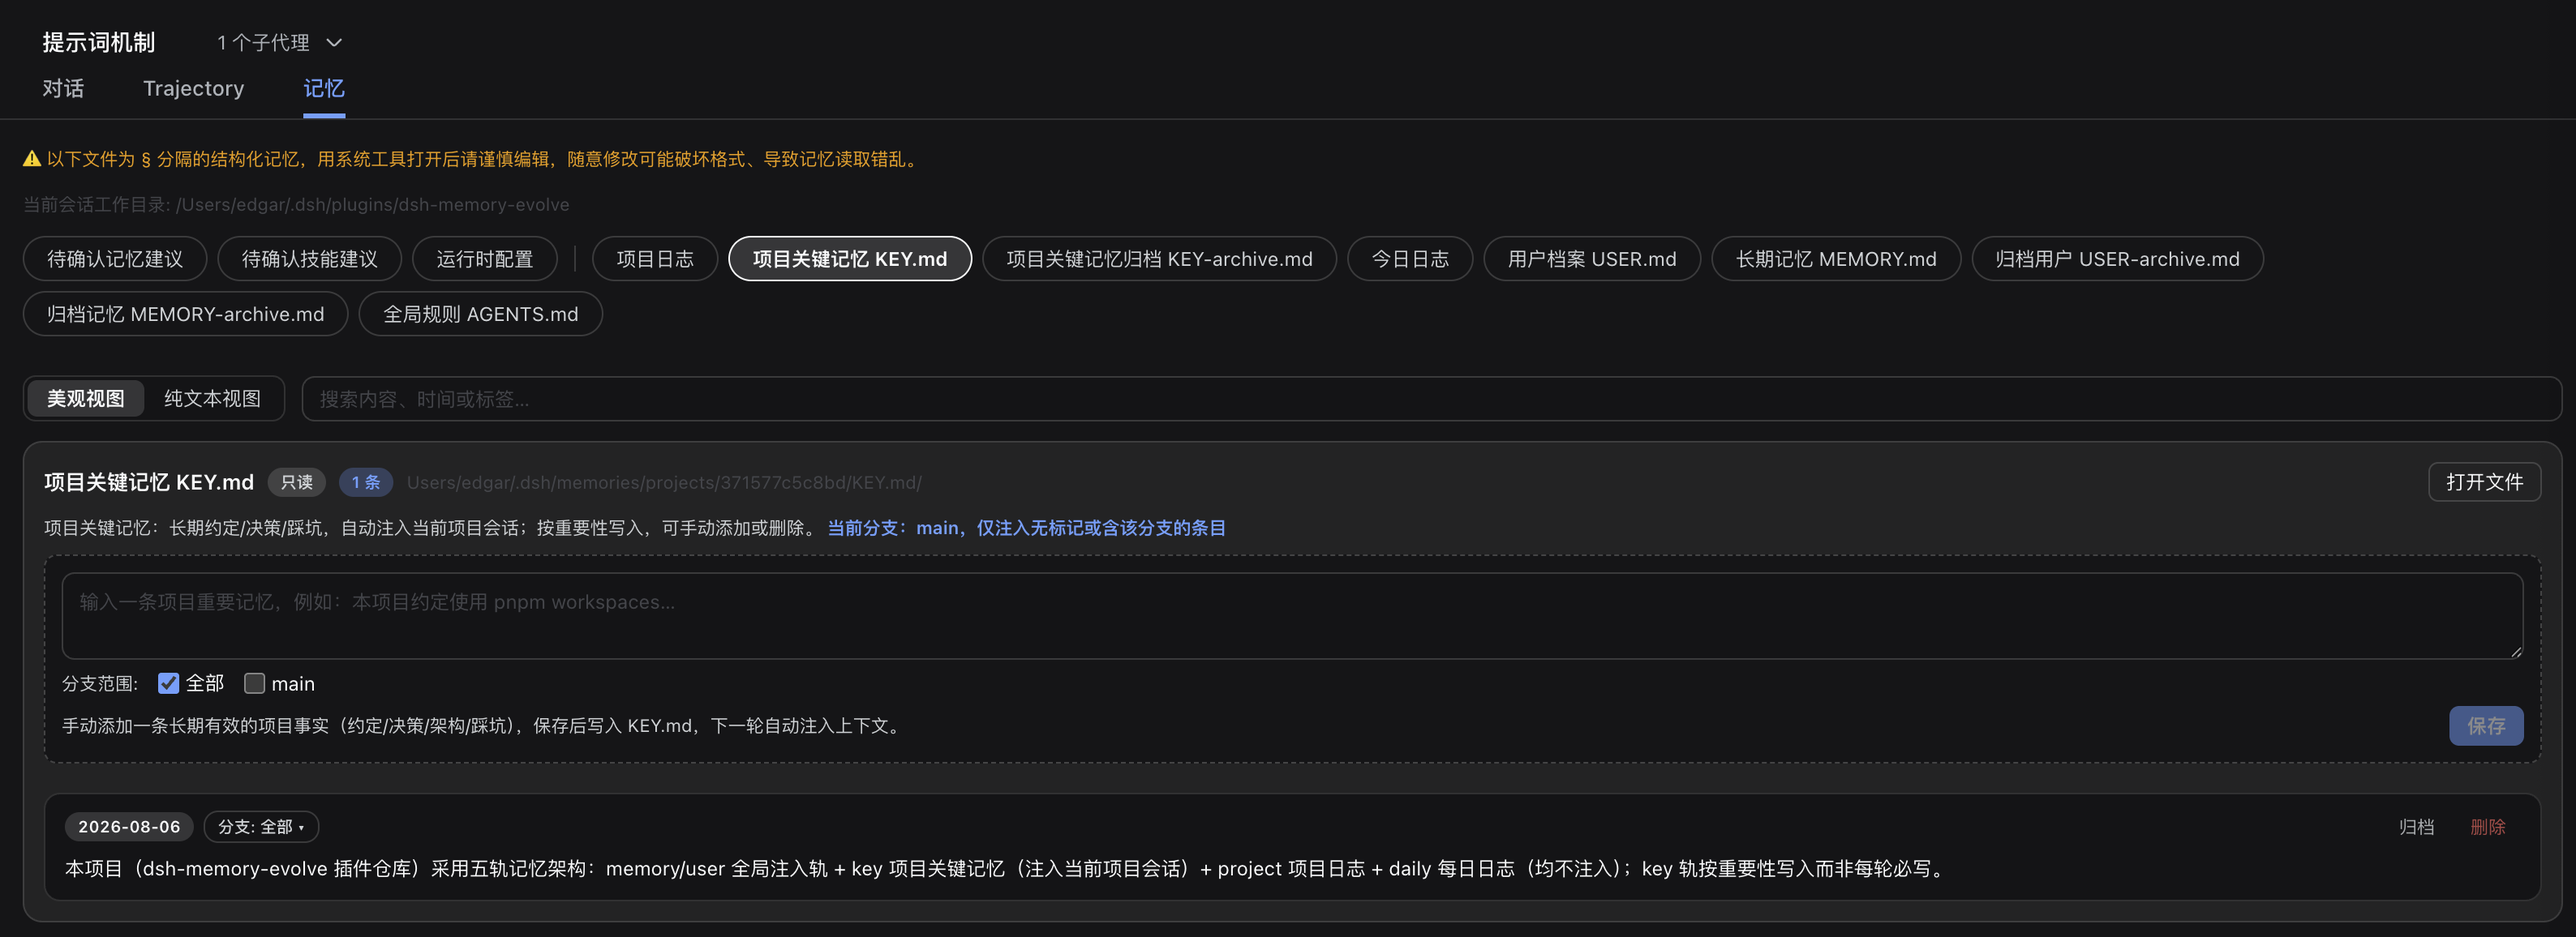
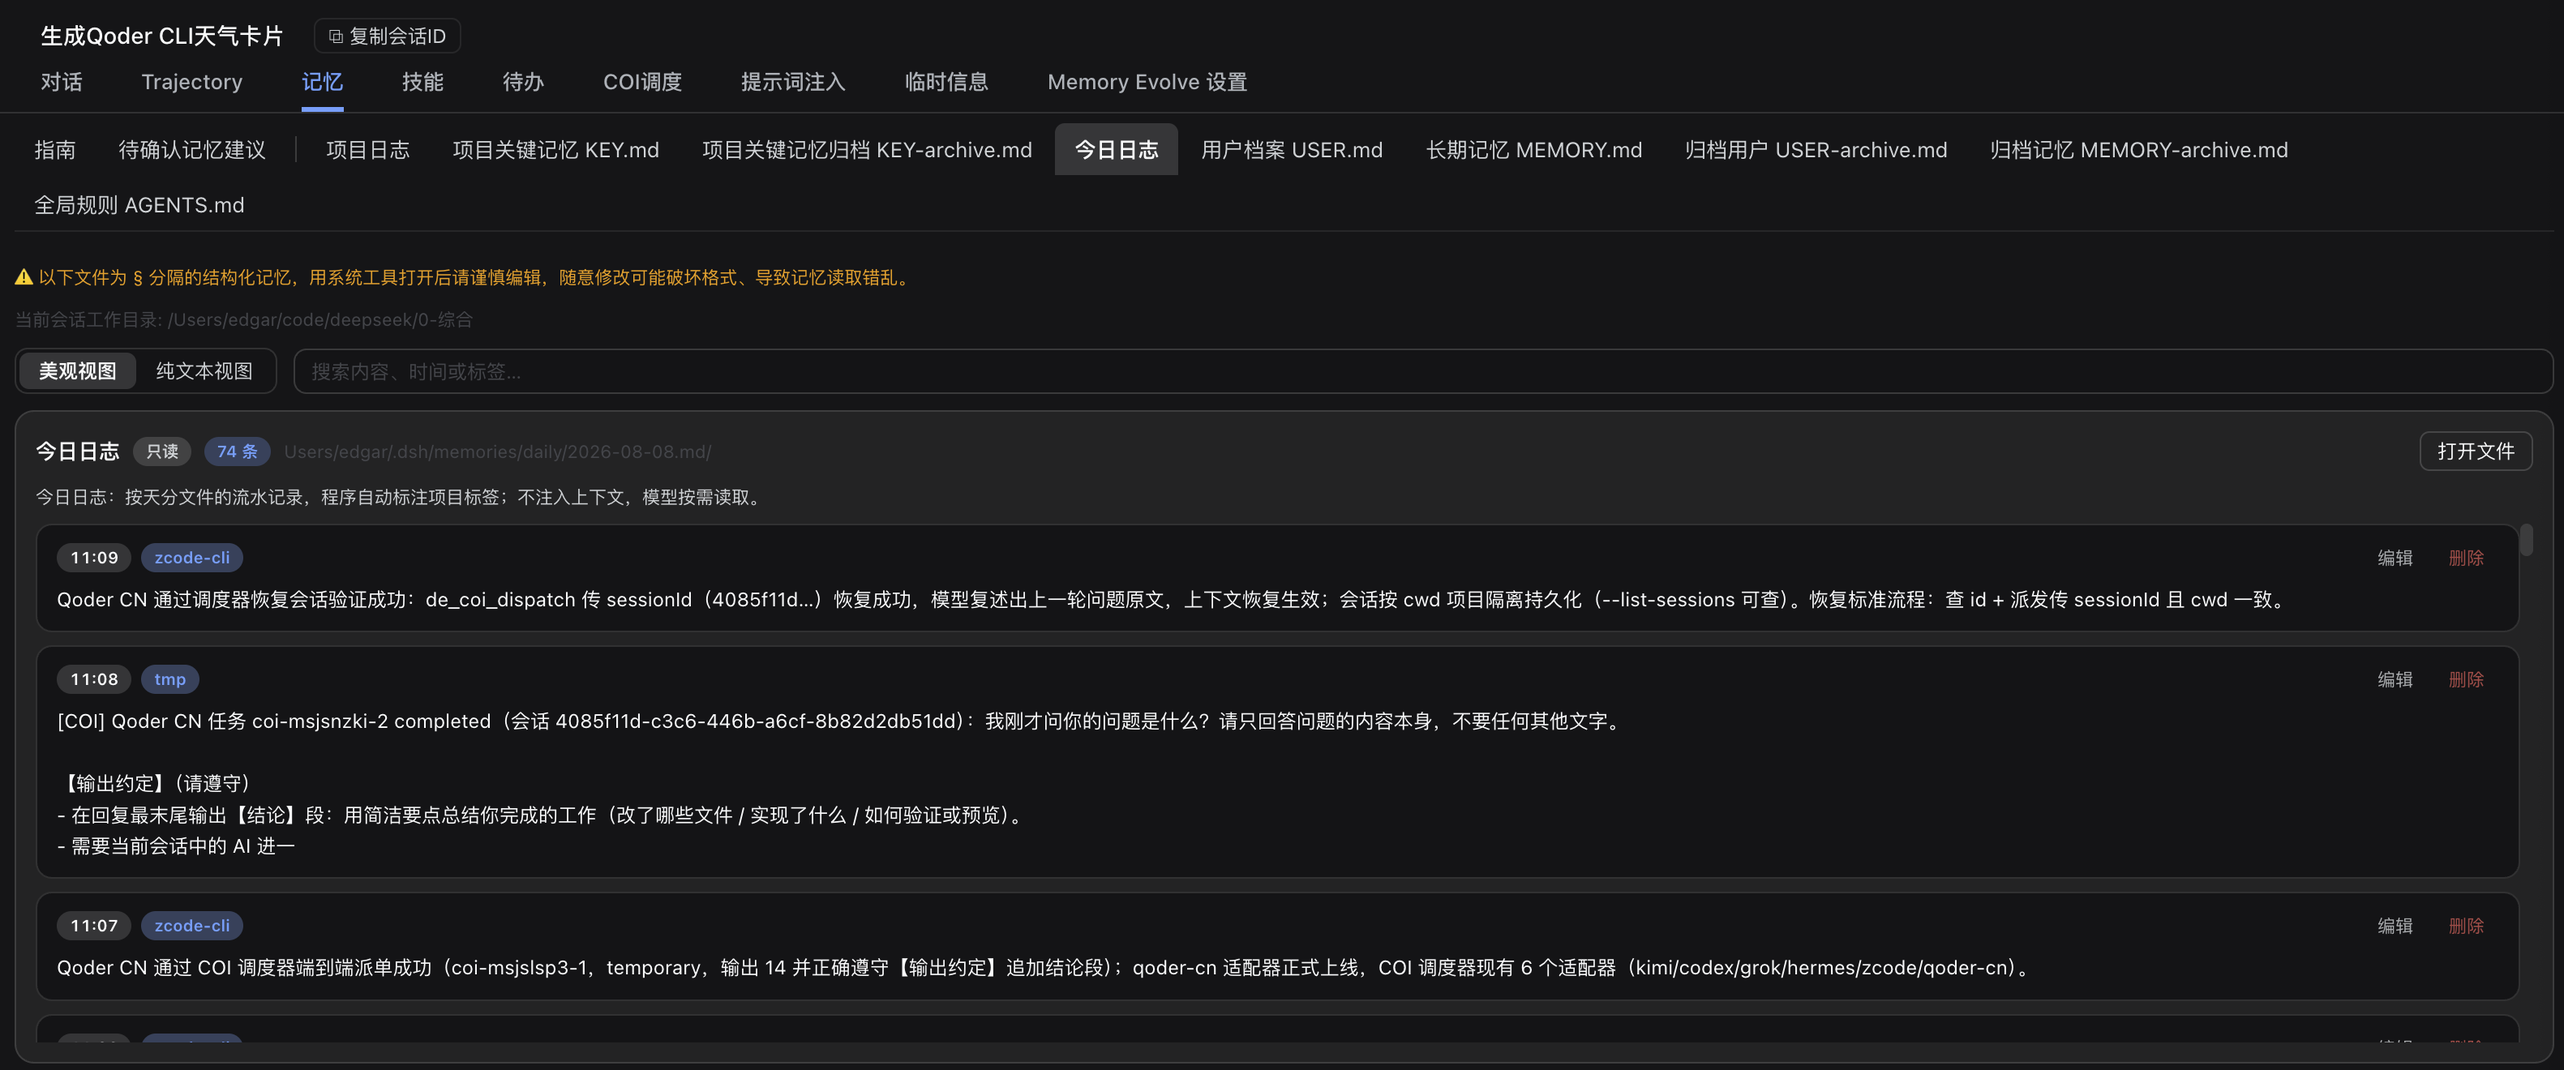
docs: 更新会话页各 Tab 实际截图（记忆/技能/待办/设置/COI调度/提示词注入/临时信息）
- 删除旧截图（记忆tab.png 旧版、未引用的设置-记忆管理.png），替换为 /Volumes/data/260808 最新实际截图
- 记忆/技能/待办/设置/COI调度 五张放「会话页 Tab」章节，提示词注入/临时信息 放各自独立章节
- 保留「每回合收尾执行记忆写入」流程截图

diff --git a/README.md b/README.md
@@ -127,6 +127,8 @@
 - **用系统工具打开**：一键在系统编辑器/访达中打开 scratch.md（复用宿主 reveal 通道）；
 - **API**：`GET /memory-evolve/api/scratch`（读取，不存在返回空内容）`POST /memory-evolve/api/scratch`（整体覆盖写入，body 上限放宽到文档上限）。
 
+![临时信息 Tab](docs/images/临时信息tab.png)
+
 ## 提示词管理器（Prompt Manager）
 
 会话页顶部的独立 Tab「提示词注入」——**指令范式资产库 + 注入执行器**，复用插件的「写后即时注入、不打断回复」通道：注入的本质是把一段指令写进快照可见的位置，模型**下一轮**生成时自动看到，写入发生在后台、不打断正在进行的回复。
@@ -146,6 +148,8 @@
   - `GET/POST /prompts/categories`、`DELETE /prompts/categories/:name`——分类管理（添加/删除，删除时该分类提示词移到未分类）。
 - **扩展口**：注入 API 即预留的外部触发入口——未来文件/Git/端口等**监测注入**（二期）只对接注入轨 `add`，本模块无需改动。
 - **开关**：「Memory Evolve 设置」Tab「配置」的「提示词管理器」（**默认关闭**，与本地搜索/COI 一致——普通用户不需要此功能；开启后快照段/事件监听/API 安装、Tab 刷新后出现；关闭整体卸载，存储数据保留）。
+
+![提示词注入 Tab](docs/images/提示词注入tab.png)
 
 ## 会话广播（de_broadcast）
 
@@ -262,7 +266,17 @@ agent 会通过 `memory` 工具读写记忆，通过 `skill_manage` 工具管理
 
 文件页签：直接预览 AGENTS.md 与全部记忆文件（只读预览——编辑请通过 memory 工具或用系统工具打开文件，避免破坏 § 分隔格式；**例外**：「项目关键记忆 KEY.md」页签提供输入框**手动添加**长期项目事实（用户即确认者，保存后直写并在下一轮自动注入上下文），**可同时选择分支范围**（下拉多选：全部 / 具体分支，「全部」权重最大、与具体分支互斥；非 git 仓库只有「全部」）。key 条目带**分支范围徽标**（全部 / 分支列表），点击可修改范围；key 页签描述行显示**当前分支**。美观视图的**每条记忆都带操作按钮**：「删除」先弹出确认，由宿主按**完整条目精确匹配**删除（非子串匹配，杜绝误删包含关系的长条目），删除不可恢复；**用户档案 / 长期记忆 / 项目关键记忆页签均可「归档」条目**（移入对应归档文件、不再注入，可随时移回），**三个归档页签均可「移回主记忆」转正**——主记忆 ↔ 归档双向打通）。§ 分隔的结构化条目（项目日志/今日日志/全局记忆/项目关键记忆等）默认以**美观卡片视图**展示（时间徽标 + 内容 + 项目标签 + 操作按钮，支持关键词搜索过滤），可切换回纯文本视图；**每个页签顶部有一行小字说明该记忆的作用与机制**；每行可一键用系统工具打开。
 
-![会话页记忆 Tab](docs/images/记忆tab.png)
+会话页 Tab 栏（记忆 · 技能 · 待办 · COI调度 · 提示词注入 · 临时信息 · Memory Evolve 设置）实际效果：
+
+![记忆 Tab](docs/images/记忆tab.png)
+
+![技能 Tab](docs/images/技能tab.png)
+
+![待办 Tab](docs/images/待办tab.png)
+
+![Memory Evolve 设置 Tab](docs/images/设置tab.png)
+
+![COI 调度 Tab](docs/images/COI调度tab.png)
 
 ### 用户侧命令
 
